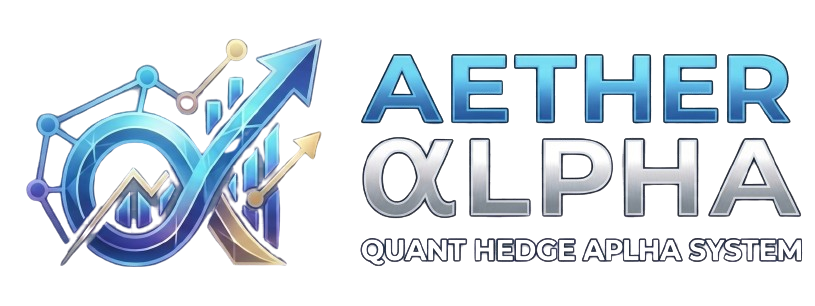
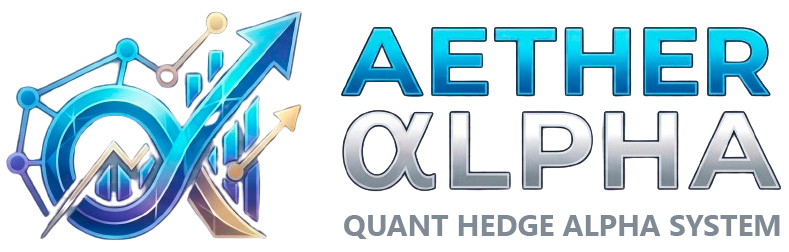
chore: deploy 2026-05-27 20:45

diff --git a/src/dashboard/templates/index.html b/src/dashboard/templates/index.html
@@ -91,14 +91,14 @@
 
     /* Row 2 — brand center */
     .brand-logo-img {
-      height: 90px;
+      height: 100px;
       width: auto;
       object-fit: contain;
-      filter: drop-shadow(0 0 18px rgba(0,212,255,0.35)) drop-shadow(0 0 6px rgba(33,150,243,0.25));
+      filter: brightness(1.15) contrast(1.05) drop-shadow(0 0 18px rgba(0,212,255,0.35)) drop-shadow(0 0 6px rgba(33,150,243,0.25));
       transition: filter 0.3s ease;
     }
     .brand-logo-img:hover {
-      filter: drop-shadow(0 0 26px rgba(0,212,255,0.55)) drop-shadow(0 0 10px rgba(33,150,243,0.35));
+      filter: brightness(1.25) contrast(1.05) drop-shadow(0 0 26px rgba(0,212,255,0.55)) drop-shadow(0 0 10px rgba(33,150,243,0.35));
     }
     .hdr-brand {
       display: flex;
